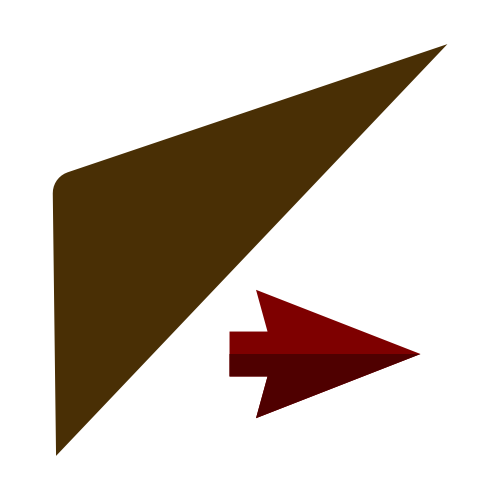
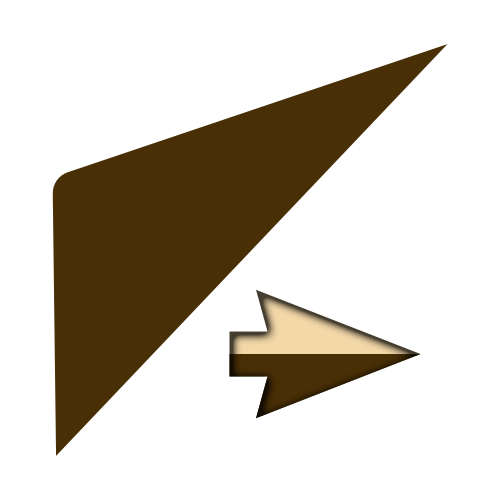
book gui almost done

Changed region(s): [[0.45, 0.57, 0.84, 0.84]]

diff --git a/Assets/Scripts/InGameGui.cs b/Assets/Scripts/InGameGui.cs
@@ -13,6 +13,7 @@ public class InGameGui : MonoBehaviour
     public GUIStyle BookStyle;
     public GUIStyle IconStyle;
     public GUIStyle ArrowRightStyle;
+    public GUIStyle ArrowLeftStyle;
     public GUISkin skin;
     public Font theFont;
 
@@ -26,12 +27,14 @@ public class InGameGui : MonoBehaviour
     public float posX;
     public float posY;
 
+    private int currentPage;
+
     //determines if the book is shown or not after clicking the book icon
     private bool _enableBook;
 
     //TODO: dynamic size regarding the actual number of total rules
-    private static int _ruleAmount = 6;
-    private bool[] showingBookPage = new bool[_ruleAmount];
+    //private static int _ruleAmount = 6;
+    //private bool[] showingBookPage = new bool[_ruleAmount];
 
     //reference on the book script
     private Book _book;
@@ -46,7 +49,7 @@ public class InGameGui : MonoBehaviour
 	    BookStyle.wordWrap = true;
 
         _book = this.GetComponent<Book>();
-
+	    currentPage = 0;
 	    _enableBook = false;
 	}
 	
@@ -76,63 +79,61 @@ public class InGameGui : MonoBehaviour
     {
         GUI.skin = skin;
 
-        setAllPagesToFalse(0);
+        //setAllPagesToFalse(0);
         //enabeling first book page
-        showingBookPage[0] = true;
+        //showingBookPage[0] = true;
 
         GUI.DrawTexture(new Rect((Screen.width * 0.5f) - (bookSize.x / 2), (Screen.height * 0.5f) - (bookSize.y / 2), bookSize.x, bookSize.y), bookImage);
 
 
-        if (showingBookPage[0])
-        {
+
             GUI.BeginGroup(new Rect((Screen.width * 0.5f) - (bookSize.x / 2), (Screen.height * 0.5f) - (bookSize.y / 2), bookSize.x, bookSize.y));
+                //right button        
+            if (currentPage + 2 < Config.Beliefs.Count)
+            {
                 if (GUI.Button(new Rect(bookSize.x * 0.836f, bookSize.y * 0.67f, arrowSize.x, arrowSize.y), "", ArrowRightStyle))
-                    {
-                        setAllPagesToFalse(1);
-                        showingBookPage[1] = true;
-                    }
-                //left page
+                            {
+                                currentPage+=2;
+                            }
+            }
+
+                //left button
+        if (currentPage > 0)
+        {
+            if (
+                GUI.Button(new Rect(bookSize.x*0.05f, bookSize.y*0.67f, arrowSize.x, arrowSize.y), "", ArrowLeftStyle) )
+            {
+                currentPage -= 2;
+            }
+        }
+        //left page
                 GUI.BeginGroup(new Rect(bookSize.x * 0.08f, bookSize.y * 0.08f, boxSize.x, boxSize.y));
                     //GUI.Box(new Rect(bookSize.x * 0.08f, bookSize.y*0.08f, boxSize.x, boxSize.y), "test");
                     //GUI.Box(new Rect(0, 0, boxSize.x, boxSize.y), "FOOOOOOOOOO", BookStyle);
                     // GUILayout.TextArea(Config.Beliefs[0].rule, (int)boxSize.x, BookStyle);
 
-                    GUI.TextArea(new Rect(0, 0, boxSize.x, boxSize.y), Config.Beliefs[0].rule, BookStyle);
+                    GUI.TextArea(new Rect(0, 0, boxSize.x, boxSize.y), Config.Beliefs[currentPage].rule, BookStyle);
                 GUI.EndGroup();
 
                 //right page
                 GUI.BeginGroup(new Rect(bookSize.x * 0.506f, bookSize.y * 0.25f, boxSize.x, boxSize.y * 0.75f));
                     //GUI.Box(new Rect(bookSize.x * 0.08f, bookSize.y*0.08f, boxSize.x, boxSize.y), "test");
-                    GUI.Box(new Rect(0, 0, boxSize.x, boxSize.y * 0.75f), "BAAAAAAAAAAAAAAR", BookStyle);
+                GUI.Box(new Rect(0, 0, boxSize.x, boxSize.y * 0.75f), Config.Beliefs[currentPage+1].rule, BookStyle);
                 GUI.EndGroup();
 
             GUI.EndGroup();
-        }
         
 
+
     }
 
-    /// <summary>
-    /// Sets all param to false except the number that is given as an argument.
-    /// </summary>
-    /// <param name="except"></param>
-    void setAllPagesToFalse(int except)
-    {
-        for (int i = 0; i < showingBookPage.Length; i++)
-        {
-            if (i != except)
-            {
-                showingBookPage[i] = false;
-            }
-            
-        }
-    }
-
+   
     void OnGUI () {
         
         if (GUI.Button(new Rect(Screen.width - (iconSize.x * 1.25f), (iconSize.y * 0.18f ), iconSize.x, iconSize.y), "", IconStyle))
         {
             _enableBook = !_enableBook;
+            Debug.Log("button");
         }
 
         if (_enableBook)

diff --git a/Assets/Scripts/Book.cs b/Assets/Scripts/Book.cs
@@ -26,6 +26,11 @@ public class Book : MonoBehaviour {
         
 	}
 
+    public List<Rule> GetActiveRules()
+    {
+        return _activeRules;
+    }
+
     /// <summary>
     /// Is called whenever a new rule is added, deleted or discovered
     /// </summary>
